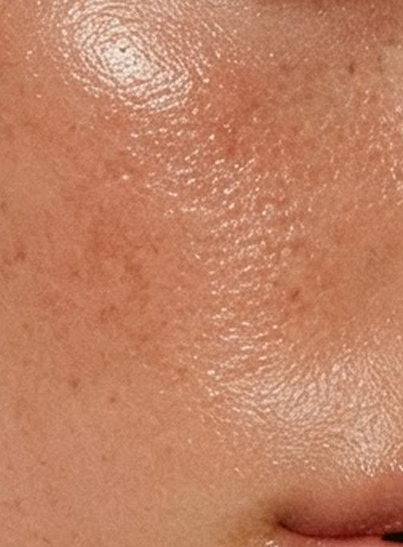
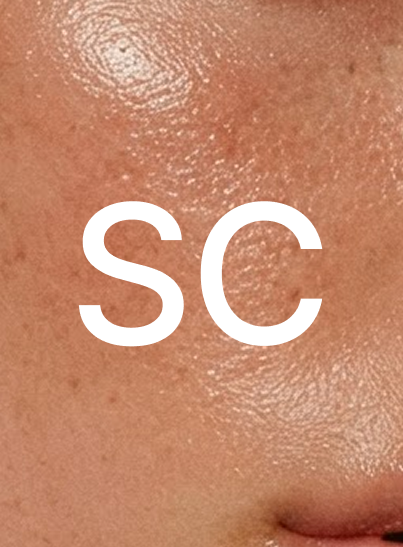
Hide: Tawk.to chatbot temporarily
- Commented out TawkChat import
- Commented out TawkChat component rendering
- Can be re-enabled later when needed

Changed region(s): [[0.1787, 0.3419, 0.4764, 0.6527], [0.4764, 0.3419, 0.804, 0.6527]]

diff --git a/src/App.jsx b/src/App.jsx
@@ -1,7 +1,7 @@
 import { Routes, Route } from 'react-router-dom'
 import Header from './components/Header'
 import Footer from './components/Footer'
-import TawkChat from './components/TawkChat'
+// import TawkChat from './components/TawkChat'
 import Home from './pages/Home'
 import Services from './pages/Services'
 import Contact from './pages/Contact'
@@ -24,7 +24,7 @@ export default function App() {
         </Routes>
       </main>
       <Footer />
-      <TawkChat />
+      {/* <TawkChat /> */}
     </div>
   )
 }
